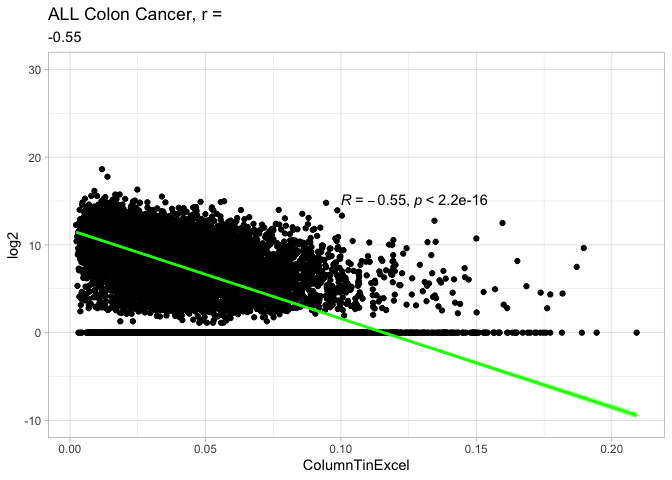
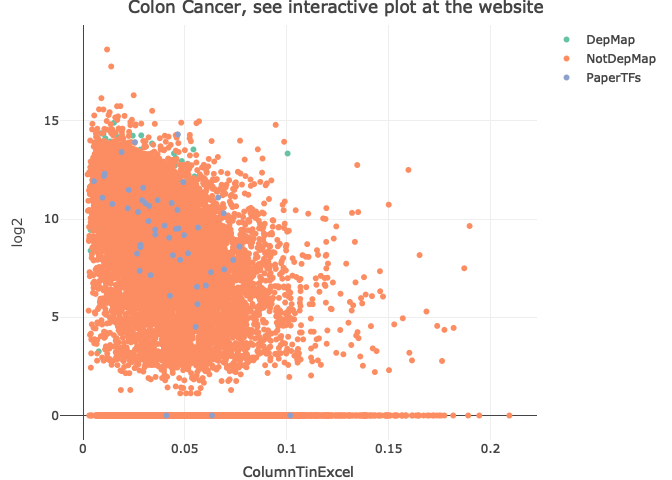
220 plots

diff --git a/README.md b/README.md
@@ -1,7 +1,7 @@
 README
 ================
 Yutian Liu
-2023-02-19
+2023-02-20
 
 # Research on the correlation between functional human genes and epigenetic conservation
 
@@ -42,6 +42,7 @@ library(devtools)
 library(Matrix)
 library(ggridges)
 library(data.table)
+library(plotly)
 ```
 
 # Normal Colon data
@@ -284,7 +285,18 @@ Plots](https://yutianl.shinyapps.io/DNAMethylationScatterPl/) You can
 chose from the right legend and click the button twice to isolate them
 for a better visualization. Choose the `Log2_CPM` as the Y variable and
 `NN3_genePWD` as the X variable to view the association between gene
-expression and pair distance.
+expression and pair distance. 44 TFs in the paper are found in the colon
+cancer data. Gene “RTEL1,” “PPP2R2C,” “WNT2,” “FAM150A,” “KRT23,” and
+“FOXQ1” are not in the `Normal Colon` datasheet.
+
+``` r
+NN1<- readRDS("~/Desktop/DNA_Conservation/ScatterPl/census-app/data/NN1TFs220.rds")
+plot_ly(data = NN1, x = ~NN3_genePWD, y = ~Log2_CPM,color = ~common.essential.DepMap,type = "scatter",
+        mode   = 'markers') %>% 
+        layout(title = "Normal Colon, see interactive plot at the website")
+```
+
+![](README_files/figure-gfm/unnamed-chunk-24-1.png)<!-- -->
 
 ## 2.18 Update: Plot and Interactive Plots of ColonCancer data
 
@@ -299,7 +311,20 @@ as you like. There are three categories, `DepMap` means those genes are
 identified as more essential to proliferation in tissue culture in the
 recent DepMap CRISPR-Cas9 single gene disruptions. `Not DepMap` means
 those are not identified as essential DepMap genes. `PaperTFs` means
-those listed as TFs in colon cancer publications.
+those listed as TFs in colon cancer publications. 50 TFs in the paper
+are found in the `Colon Cancer` data.
+
+``` r
+coloncanShiny  <- readRDS("~/Desktop/DNA_Conservation/ColonCancer/ColonCancer/data/coloncanShiny3digits220.rds")
+plot_ly(data = coloncanShiny, x = ~ColumnTinExcel, y = ~log2,color = ~DepMap,type = "scatter",
+        mode   = 'markers') %>% 
+        layout(title = "Colon Cancer, see interactive plot at the website")
+```
+
+![](README_files/figure-gfm/unnamed-chunk-25-1.png)<!-- -->
+
+These two figures show that TFs in the paper expressed more in colon
+cancer than in the normal colon.
 
 ### With all data in the sheet
 
@@ -312,7 +337,7 @@ ggplot(coloncan, aes(x = ColumnTinExcel, y = log2)) +
   theme_light() + stat_cor(method = "pearson", label.x = 0.10, label.y = 15)+ylim(-10,30) + ggtitle("ALL Colon Cancer, r =",round(cor(x,y),2))
 ```
 
-![](README_files/figure-gfm/unnamed-chunk-25-1.png)<!-- -->
+![](README_files/figure-gfm/unnamed-chunk-27-1.png)<!-- -->
 
 As the plot shows, the Pearson correlation coefficient(r) is -0.55, and
 the P value is less than 2.2e-16, indicating a significant result that
@@ -345,7 +370,7 @@ ggplot(coloncanDep, aes(x = ColumnTinExcel, y = log2)) +
   theme_light() + stat_cor(method = "pearson", label.x = 0.05, label.y = 15)+ylim(-10,30) + ggtitle("Colon Cancer DepMap, r =",round(cor(x,y),2))
 ```
 
-![](README_files/figure-gfm/unnamed-chunk-28-1.png)<!-- --> The plot
+![](README_files/figure-gfm/unnamed-chunk-30-1.png)<!-- --> The plot
 shows that the Pearson correlation coefficient(r) is -0.033. The P value
 is less than 0.05, indicating a significant result that there is a
 negative correlation between log2 and Column T in the DepMAP genes. This
@@ -379,7 +404,7 @@ ggplot(coloncanNoDep, aes(x = ColumnTinExcel, y = log2)) +
   theme_light() + stat_cor(method = "pearson", label.x = 0.05, label.y = 20)+ylim(-10,25) + ggtitle("Colon Cancer NotDepMap, r =",round(cor(x,y),2))
 ```
 
-![](README_files/figure-gfm/unnamed-chunk-31-1.png)<!-- --> This figure
+![](README_files/figure-gfm/unnamed-chunk-33-1.png)<!-- --> This figure
 is similar to the figure drawn with all of these colon cancer data,
 there is a significant negative correlation between log2 and Column T,
 and the r value is -0.54.
